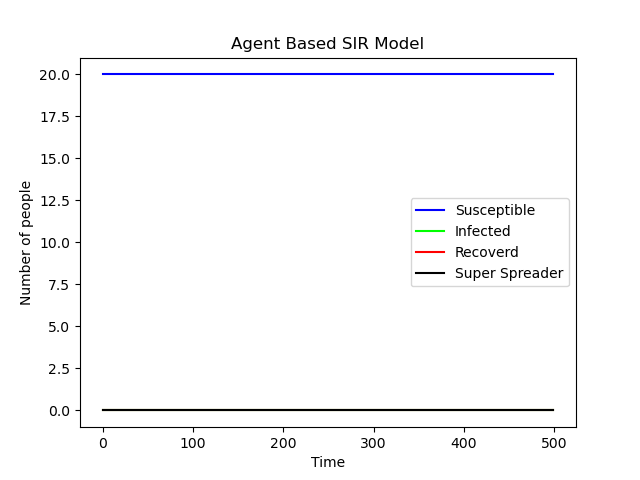
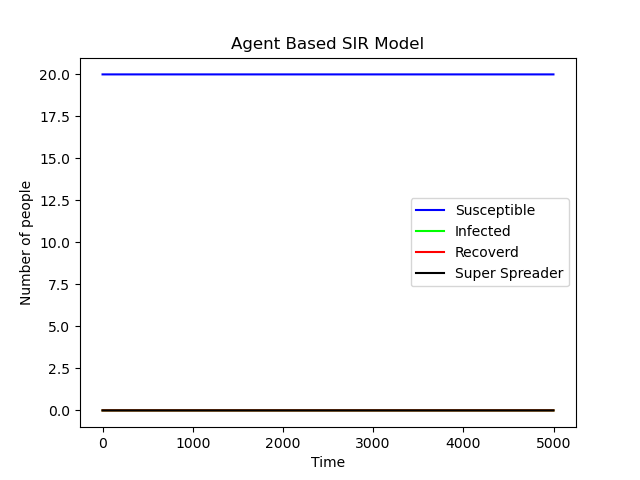
better collisions

diff --git a/Agent/agents.py b/Agent/agents.py
@@ -19,7 +19,7 @@ class Person:
 
 	# Base class for agents.
 	
-	def __init__(self, position, velocity, radius, gamma, beta, width=600, height=600, SIR='S'):
+	def __init__(self, position, velocity, radius, gamma, beta, width, height, SIR='S'):
 		self.position = position
 		self.SIR = SIR
 		self.velocity = velocity
@@ -86,7 +86,7 @@ def setup_simulation(init_S, init_I, radius, beta, gamma, width, height):
 		yspeed = (random() - 0.5)*2
 
 
-		population.append( Person(position=np.array([x,y]), velocity=np.array([xspeed, yspeed]), SIR='S', radius=radius , gamma=gamma, beta=beta) )
+		population.append( Person(position=np.array([x,y]), velocity=np.array([xspeed, yspeed]), SIR='S', radius=radius , gamma=gamma, beta=beta, height=height, width=width) )
 
 	for i in range(init_I):
 		x = radius + random()*(width - 2*radius)
@@ -113,14 +113,17 @@ class HomePerson(Person):
 	def update(self):
 
 		if self.position[0] + self.radius > self.width or self.position[0] - self.radius < 0:
-			self.velocity[0] = -self.velocity[0]	
+			self.velocity[0] = -self.velocity[0]
 			
 		if self.position[1] + self.radius > self.height or self.position[1] - self.radius < 0:
 			self.velocity[1] = -self.velocity[1]
 
 
 		if np.linalg.norm(self.position - self.home) > (self.home_size - self.radius):
-			self.velocity = -self.velocity
+			normal = self.position - self.home
+			u = ( np.dot(self.velocity, normal)/np.dot(normal, normal) ) * normal
+			w = self.velocity - u
+			self.velocity = w - u
 
 
 		self.position += self.velocity

diff --git a/Agent/HomeAgentModelWAnimation.py b/Agent/HomeAgentModelWAnimation.py
@@ -10,22 +10,22 @@ WHITE = (255,255,255)
 
 width, height = 800, 600
 
-T = 500
+T = 5000
 
 gamma = 0.0015
 beta = 0.05
 
-init_S = 20
+init_S = 21
 init_I = 0
 
-super_spreaders = 0
+super_spreaders = 1
 home_people = init_S + init_I - super_spreaders
 
 people_per_home = 5
 home_number = home_people // people_per_home
 
 radius = 20.0
-home_radius = 150.0
+home_radius = 140.0
 
 columns = 2
 
@@ -58,7 +58,7 @@ for i in range(people_per_home):
 		yspeed = (random() - 0.5)*2
 
 		population.append( agents.HomePerson(position=np.array([x,y]), velocity=np.array([xspeed, yspeed]), home=home, home_size=home_radius, SIR='S', \
-			radius=radius , gamma=gamma, beta=beta, width=600, height=600) )
+			radius=radius , gamma=gamma, beta=beta, width=width, height=height) )
 
 
 
